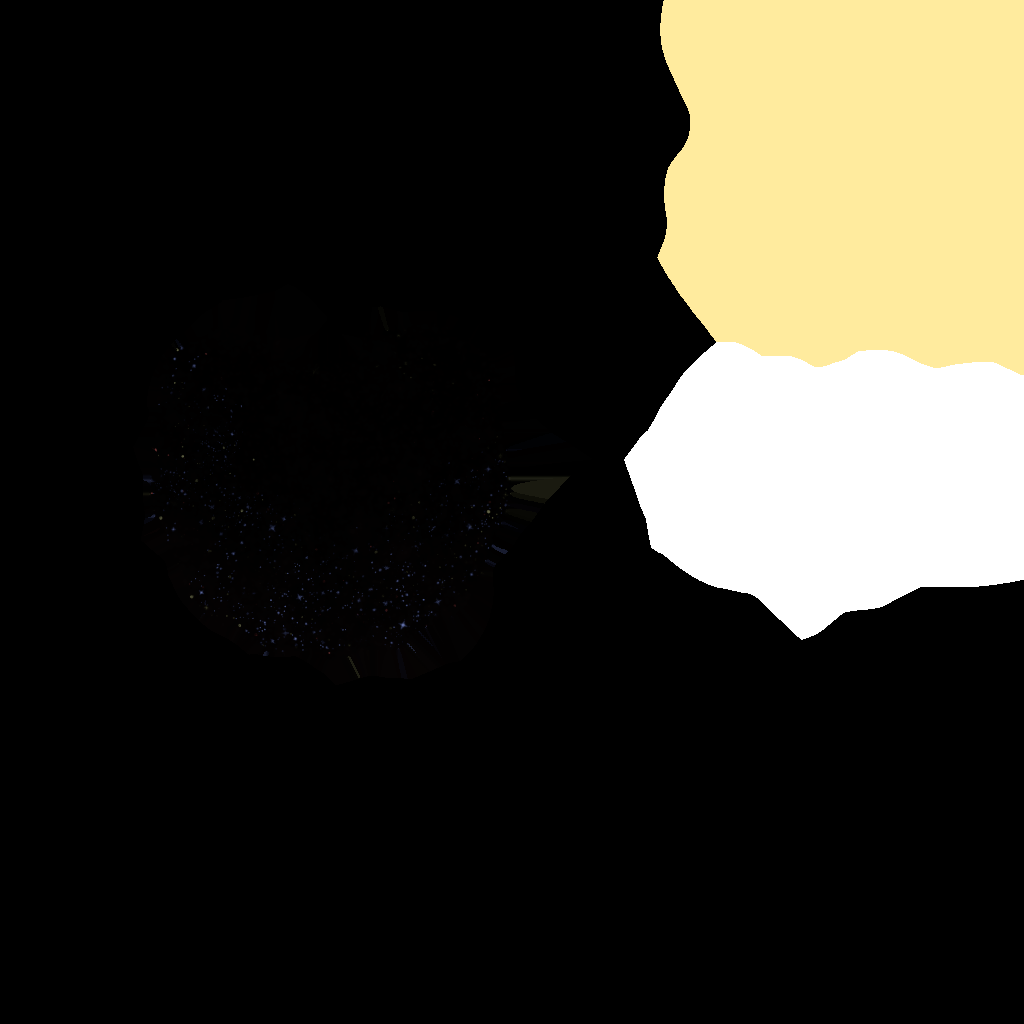
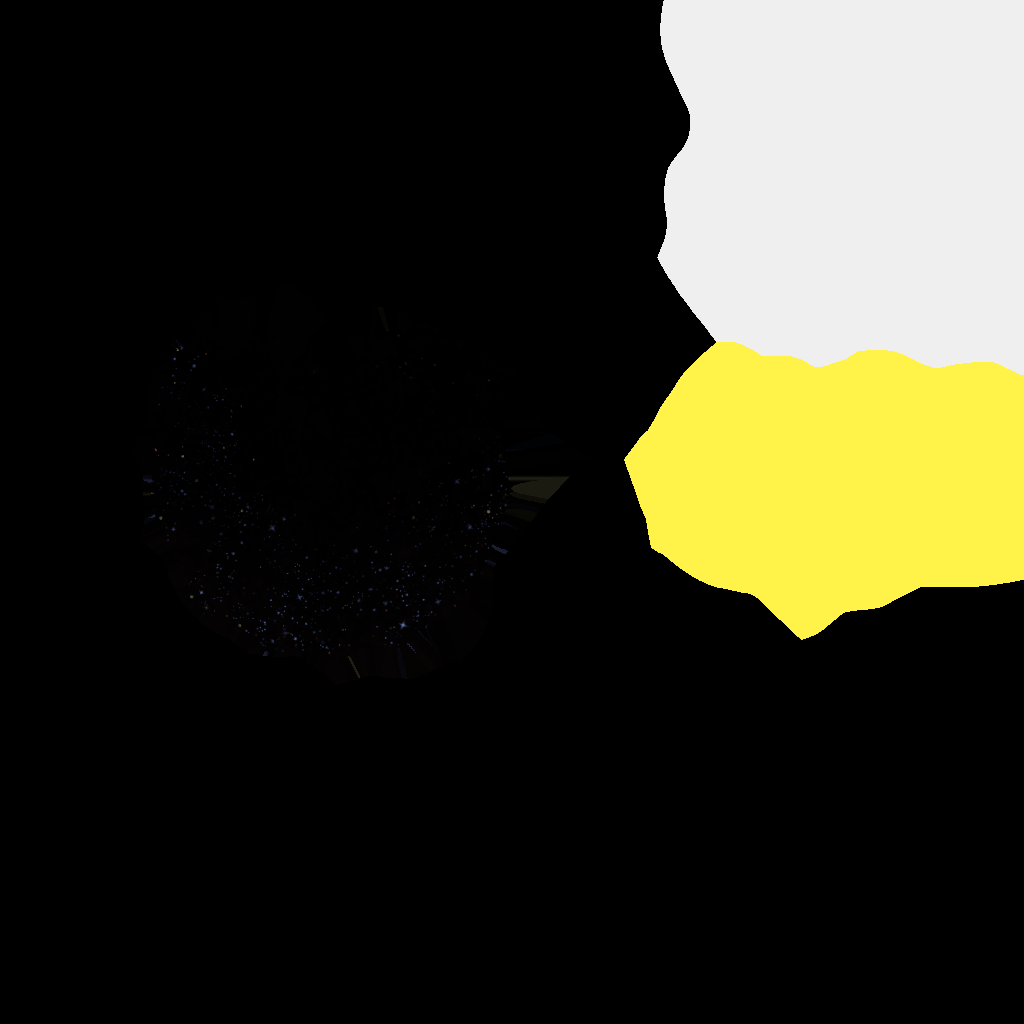
최대 조명 개수 늘림

Changed region(s): [[0.5938, 0.0, 1.0, 0.625]]

diff --git a/Client/Application/GameApp.cpp b/Client/Application/GameApp.cpp
@@ -32,8 +32,8 @@ BOOL GameApp::OnPostInitialize()
             mMainScene->GetIWindow()->SetPositionCenter();
         }
 #ifdef _DEBUG
-        EditorManager::ShowEditorWindow(mMainScene);
-        GameManager::SetRunType(eEngineRunType::EDITOR_MODE);
+      EditorManager::ShowEditorWindow(mMainScene);
+      GameManager::SetRunType(eEngineRunType::EDITOR_MODE);
 #else
         GameManager::SetRunType(eEngineRunType::GAME_MODE);
 #endif // DEBUG

diff --git a/MyD3D/Graphics/ConstantBuffer.h b/MyD3D/Graphics/ConstantBuffer.h
@@ -71,7 +71,7 @@ struct BoneMatrixCBuffer
     Matrix  finalBoneMatrix[MAX_BONE_COUNT];
 };
 
-#define MAX_LIGHT_COUNT 10
+#define MAX_LIGHT_COUNT 20
 struct LightCBuffer
 {
     LightProperty LightProp[MAX_LIGHT_COUNT];
